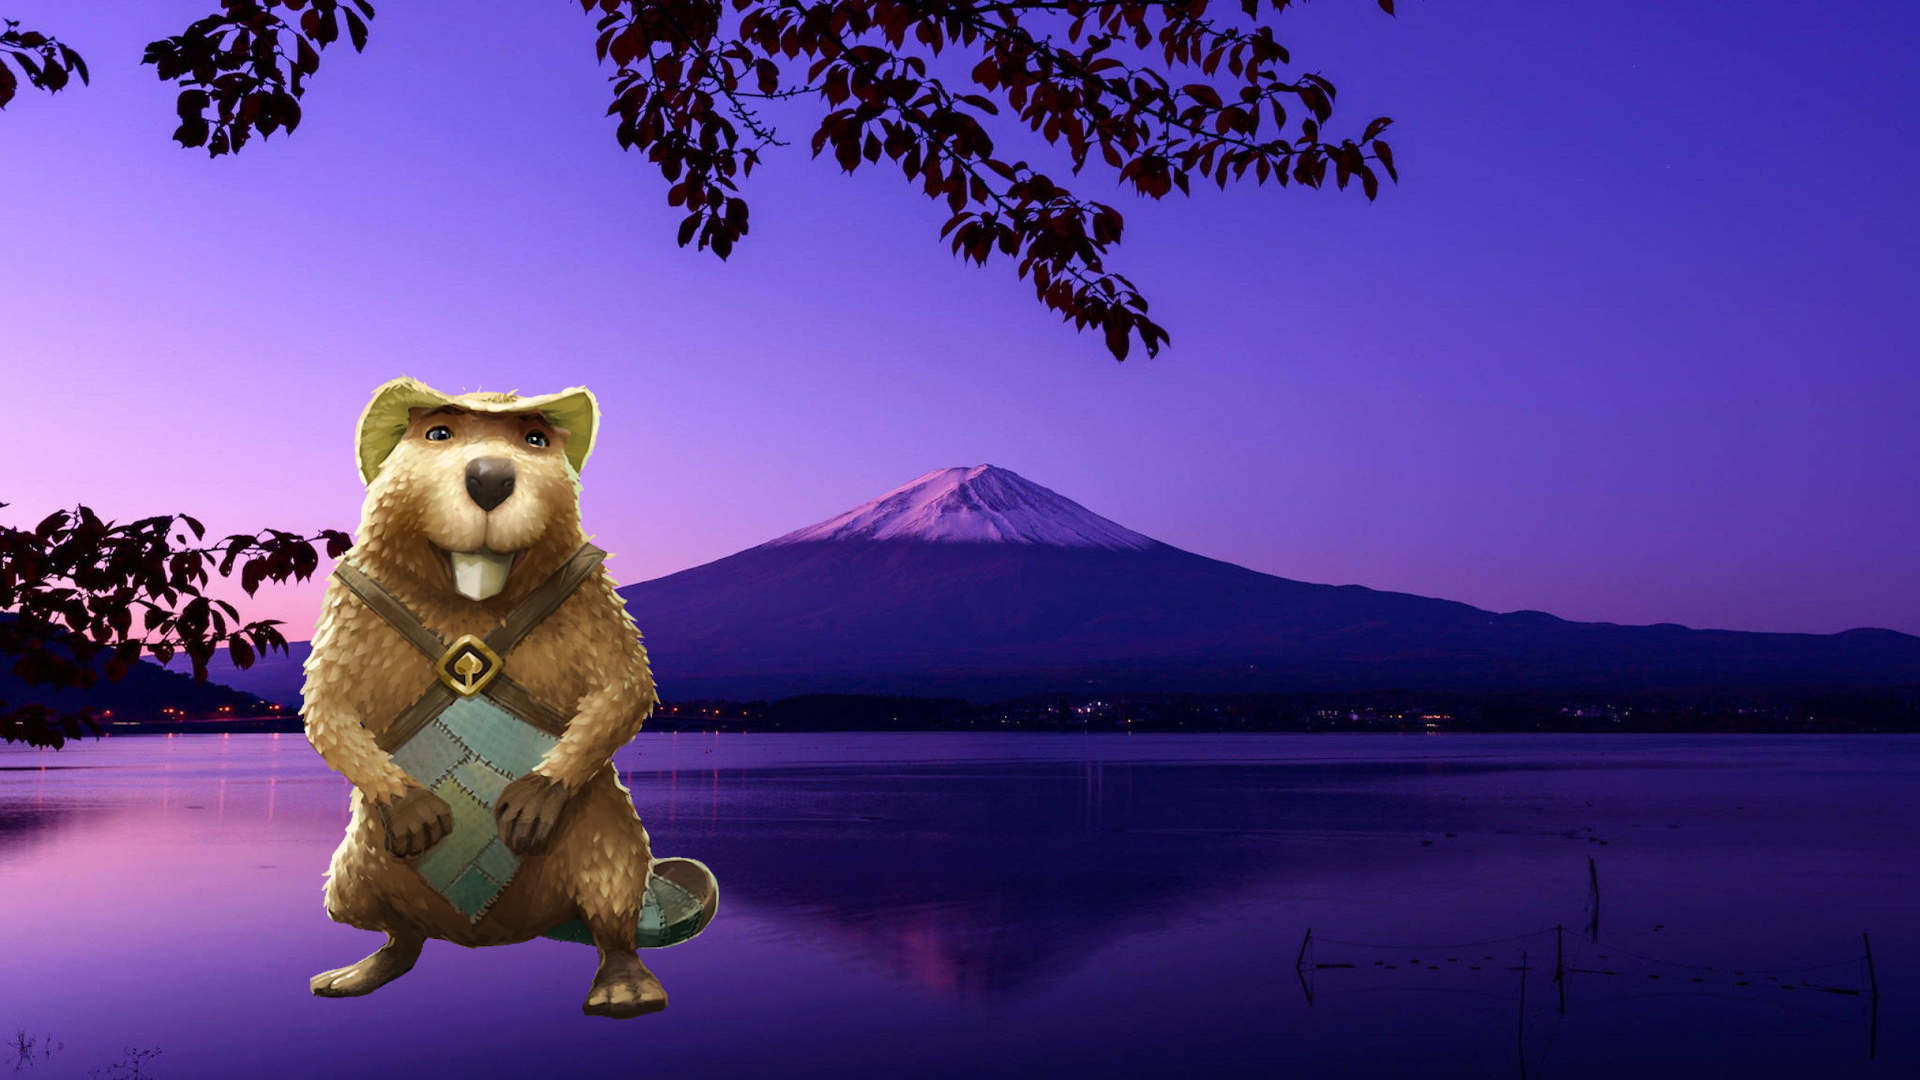
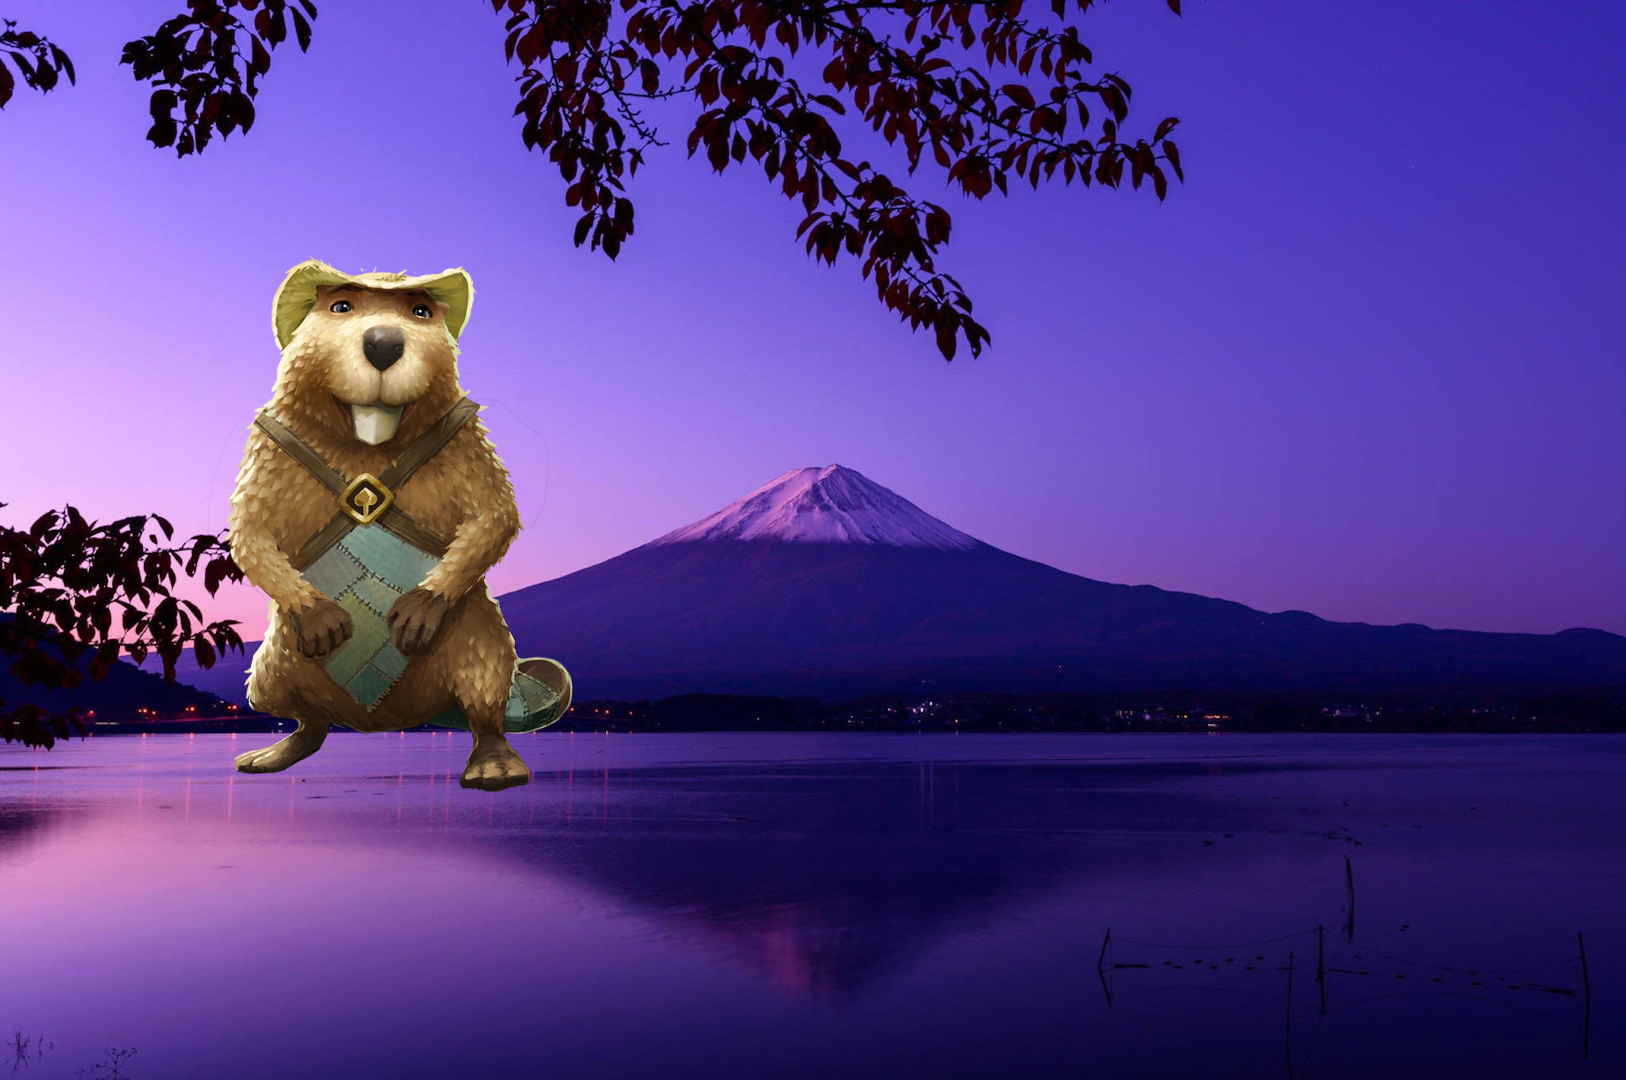
index quase finalizado com sucesso

Changed region(s): [[0.123, 0.2444, 0.3998, 0.9472]]

diff --git a/BeaverEnterprisesMVC/wwwroot/css/site.css b/BeaverEnterprisesMVC/wwwroot/css/site.css
@@ -50,7 +50,7 @@ body {
 
 
 .search-box {
-    background: rgba(130, 89, 46, 0.2); /* Cor com opacidade */
+    background: rgba(130, 89, 46, 0.7); /* Cor com opacidade */
     padding: 30px;
     border-radius: 12px;
     box-shadow: 0 5px 15px rgba(0, 0, 0, 0.2);
@@ -207,7 +207,7 @@ h3 {
 }
 
 .image {
-    background-image: url('/images/eiffel-tower-beaver.png');
+    background-image: url('/images/fuji-beaver-ya.png');
     background-size: cover;
     background-position: center;
     background-repeat: no-repeat;
@@ -240,7 +240,7 @@ h3 {
     }
 
 .suggestions-list {
-    background: rgb(130, 89, 46); /* Cor de fundo castanha */
+    background: rgb(130, 89, 46, 0.5); /* Cor de fundo castanha */
     border-radius: 8px; /* Bordas arredondadas */
     color: white; /* Texto branco */
     list-style: none;
@@ -250,8 +250,8 @@ h3 {
     max-height: 150px;
     overflow-y: auto;
     margin: 0;
-    display: none; /* Inicialmente escondido */
-    border: 1px solid #000000; /* Borda preta */
+    display: none; 
+    border: 1px solid #000000; 
 }
 
     .suggestions-list li {
@@ -259,5 +259,48 @@ h3 {
     }
 
         .suggestions-list li:hover {
-            background: rgb(110, 70, 35); /* Cor mais escura ao passar o mouse */
+            background: rgb(110, 70, 35); 
         }
+
+
+.navbarcustom {
+    display: flex;
+    justify-content: space-between;
+    align-items: center;
+    padding: 10px 30px;
+    background-color: rgba(130, 89, 46, 0.8); 
+    border-radius: 15px;
+    margin-top: 300px;
+    margin-left: 500px;
+    margin-right: 500px; 
+}
+
+.leftnavbarcustom {
+    display: flex;
+    gap: 20px; 
+}
+
+.navitem a, .login-btn {
+    text-decoration: none;
+    color: white;
+    font-weight: bold;
+    padding: 8px 15px;
+    border-radius: 10px;
+    transition: 0.3s;
+}
+
+    .navitem a:hover, .login-btn:hover {
+        background-color: rgba(255, 255, 255, 0.2); 
+    }
+
+.navbarcustom a {
+    color: white;
+    text-decoration: none;
+}
+.airline {
+
+    font-size: 24px;
+    font-weight: bold;
+    color: #333;
+    margin-top: 5px;
+}
